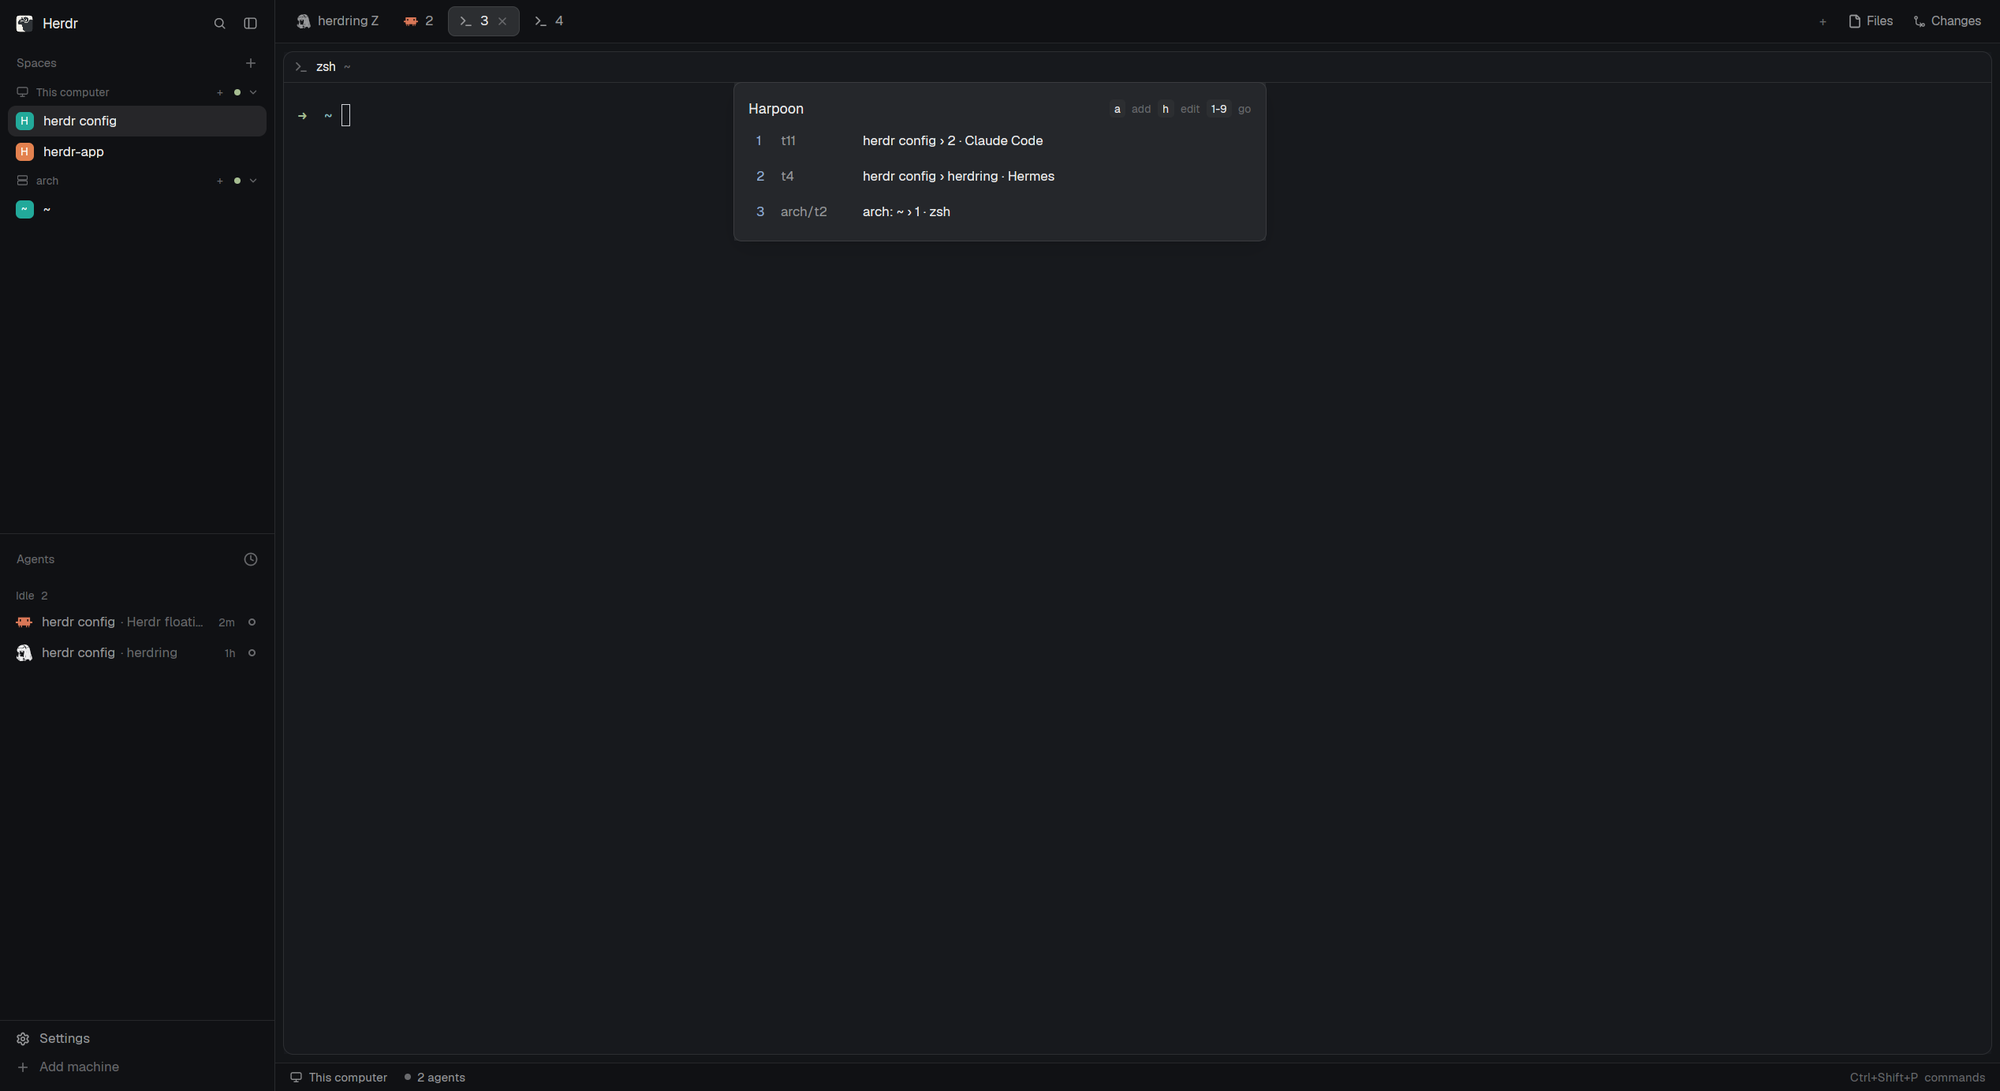
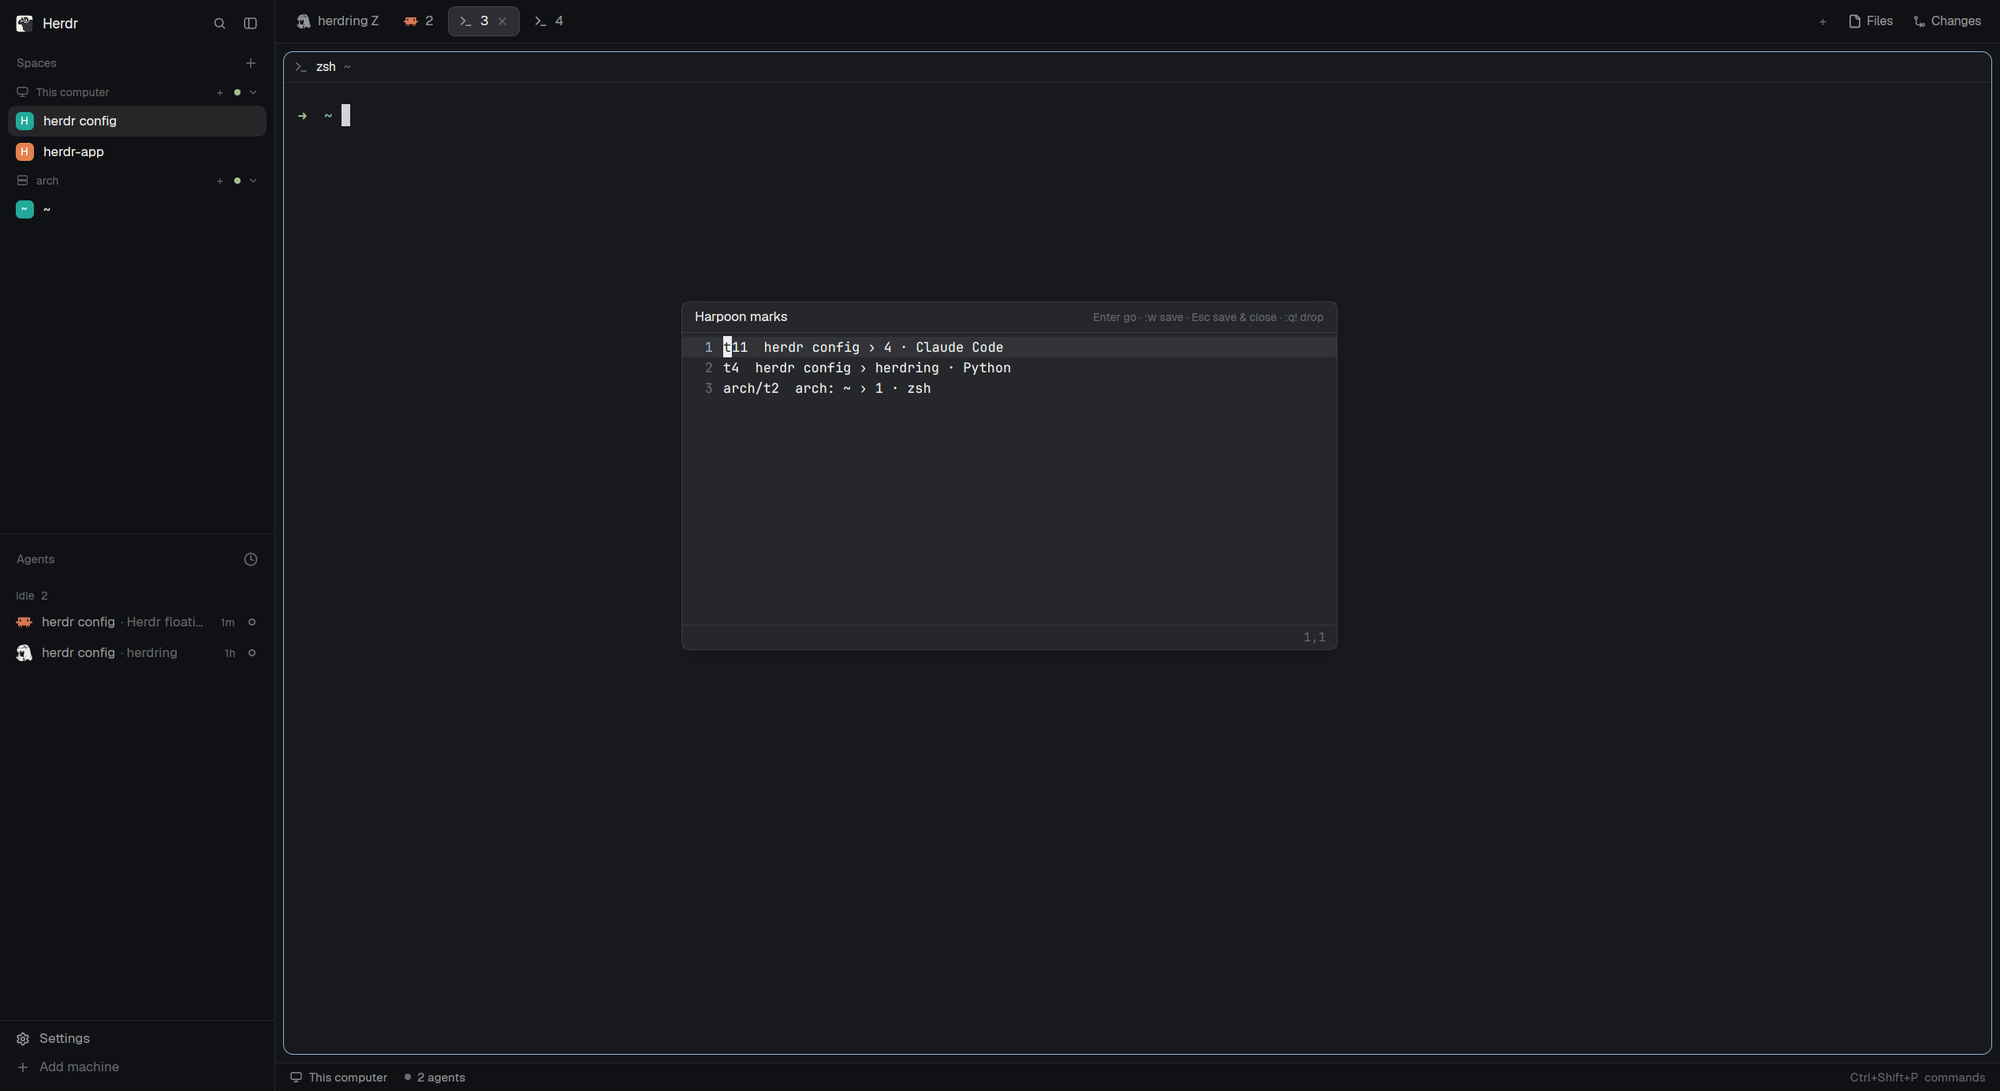
Restructure for herdr.dev: mods/harpoon/, RECIPE.md, keys.json
Lay the repo out as Herdr's mod sharing expects (mods/<name>/ plus
RECIPE.md, preview.png and a keys.json snippet). The editor screenshot
is now preview.png; the popup one is popup.png. README covers adding
it through an agent, copying, or symlinking the mod folder.

diff --git a/RECIPE.md b/RECIPE.md
@@ -1,0 +1,120 @@
+# Harpoon
+
+Harpoon-style marks for terminals. Mark the terminals you keep going back to,
+on this computer or any connected machine, then jump to one with
+`ctrl-space h` and a digit. The marks are a plain list you reorder and prune
+in a small vim-like window that opens instantly, drawn by the mod itself.
+
+![Harpoon](preview.png)
+
+## What you see
+
+**The popup** (`ctrl-space h`): a Herdr popup, 520px wide, near the top of the
+window (80px down), `popover` background, 14px padding, 13px text.
+- Header row: "Harpoon" (14px, semibold, `foreground`) on the left; on the
+  right, key hints at 11px in `dim`: small chips `a` add, `h` edit, `1-9` go
+  (chip: `raised` background, 4px radius, 5px side padding, `foreground` text).
+- One row per mark, at most 9: the slot number (14px column, `accent`,
+  semibold), the terminal address (70px column, `muted`, or `accent` when it
+  is the focused terminal), then a live description in `foreground`:
+  `<machine>: <space> › <tab> · <program>` (machine only for remote ones).
+  A mark with no pane reads `(no pane, will peek)`; a dead one `(gone)`.
+  Rows have 4px/8px padding, 6px radius and a `hover` background on hover.
+- No marks: "No marks yet. Press a to mark this terminal." in `dim`.
+
+**The editor** (`ctrl-space h h`): a Herdr window (`kind: "window"`) 640×340,
+centered the first time, then where it was last dropped (`key:
+"harpoon-editor"`), `popover` background.
+- Title bar, 30px, bottom border: "Harpoon marks" (semibold), `[+]` in `dim`
+  when there are unsaved changes, and on the right in 11px `dim`:
+  "Enter go · :w save · Esc save & close · :q! drop".
+- Lines in the terminal font (`settings().font_family`, else JetBrains Mono),
+  13px, each 20px tall: a 22px right-aligned line number (`accent` on the
+  cursor line, `dim` otherwise), then the text. The cursor line has a `hover`
+  background; a visual-line selection has `selection`. The cursor is a block:
+  the character under it drawn `background` on `foreground`.
+- Status line, 24px, top border, 12px mono: `:command` with a block cursor
+  while typing a command, else the last message (`-- VISUAL LINE --`,
+  `3 fewer lines`, `"marks.txt" 3 marks written`, errors in `blocked`); on the
+  right, pending keys/count and `row,col`.
+
+## How it behaves
+
+- The popup takes the keyboard when it opens. Next key: `a` marks the focused
+  terminal (appends `<address>  <description>` to the marks file; does nothing
+  if that address is already marked) and toasts "Harpoon N"; `1`–`9` goes to
+  that mark; `h` opens the editor; `esc` closes. Clicking a row goes to it.
+- Going to a mark: find the pane showing that terminal in `panes()`, then
+  `space.select {id}` (if not shown), `tab.select {id}` (if not shown),
+  `pane.focus {pane}`. Works the same for remote terminals (`arch/t2`).
+  A live terminal with no pane opens with `terminal.peek`; a missing one
+  toasts "`<address>` is gone" (warning).
+- The editor focuses its own focus handle (windows don't take the keyboard by
+  themselves). It is a line-oriented vim with no insert mode:
+  `h j k l`, arrows, `0 ^ $`, `w b`, `gg G {n}G`, counts; `dd {n}dd dj dk dG
+  dgg`, `yy Y`, `p P` (linewise register; `ddp` swaps lines); `V` visual line
+  with motions, `d`/`x`, `y`, `o`, `esc`; `u`, `ctrl-r`; `:w :q :q! :wq :x
+  :{line}`, `ZZ ZQ`.
+- `esc` in normal mode saves (if changed) and closes; `:q` refuses with E37
+  while there are unsaved changes; `:q!` / `ZQ` drop them. `Enter` saves and
+  goes to the mark under the cursor. Closing returns focus to the pane that
+  was focused when the editor opened.
+- Agent statuses (working, blocked, done, idle) are not shown: a mark is just
+  a terminal, whatever runs in it.
+
+## Built from
+
+- One mod, `mods/harpoon/`, `mod.json`:
+  `{ "place": "none", "overlay": { "kind": "popup", "at": "top", "offset": 80, "width": 520 } }`.
+  Opened by the key `"ctrl-space h": "mod.open:harpoon"` (see `keys.json`).
+- `main.js`: the default `View` dispatches on `props().role`: none → the
+  popup, `"editor"` → the editor. The popup opens the editor with
+  `openOverlay({ kind: "window", key: "harpoon-editor", width: 640, height: 340,
+  mod: "harpoon", props: { role: "editor", text, pane } })`, passing the file
+  text it just read so the window draws at once, then closes itself.
+- `vim.js`: the vim emulation as a plain class (`new Vim(text)`,
+  `key(name)` → null or `{action: "close" | "save" | "jump"}`), no Herdr
+  imports, so it can be tested with node. Keys are named from the key event:
+  `ctrl-<key>` with control, else `key_char` when it is one character (so `$`,
+  `V`, `G` arrive as typed), else `key` (`escape`, `enter`, `space`).
+- Marks file: `<appHome()>/data/harpoon/marks.txt`, one mark per line, first
+  word = terminal address, rest ignored, `#` lines skipped. Read with
+  `readTextFile`, written with `writeTextFile(path, text, expected)` (stale
+  writes rejected), folder made with `fs/promises` `mkdir({recursive: true})`.
+- Herdr functions: `panes`, `spaces`, `terminals`, `focused`, `theme`,
+  `settings`, `props`, `run`, `openOverlay`, `closeOverlay`, `notify`,
+  `appHome`, `readTextFile`, `writeTextFile`. Commands: `space.select`,
+  `tab.select`, `pane.focus`, `terminal.peek`. No programs run, no network.
+
+## Watch out
+
+- A terminal inside an overlay (a window or dialog with a `{terminal}` block)
+  can't be given the keyboard by a mod: `pane.focus {terminal}` fails with "no
+  such pane" and `window.focus_next()` doesn't reach it. That's why the editor
+  is drawn by the mod instead of running nvim. `terminal.peek` of a terminal
+  started a moment ago with `hc run` also fails until `terminals()` lists it.
+- `<mod>.<command>` keys only reach a mod copy that is shown, so per-slot keys
+  can't go straight to a hidden mod; the popup reading the next key is what
+  makes `ctrl-space h 1` work with one binding.
+- Windows are dragged by any press the mod doesn't stop; the editor has no
+  clickable controls, so the whole window drags.
+- Esc in a popup: handle it in `on_key_down` and stop propagation.
+- The mod must be named `harpoon`: the popup opens the editor by that name.
+- Marks are terminal addresses, so a mark dies with its terminal (a lost
+  terminal that Herdr replaces with a shell keeps its address).
+- Only slots 1–9 are shown and reachable by key; the file can hold more.
+
+## Done when
+
+- `herdr-app check mods/harpoon` passes and `herdr-app status` shows no errors.
+- `ctrl-space h` shows the popup with the marks file's first 9 addresses and
+  live descriptions; `esc` closes it.
+- `ctrl-space h a` in a terminal adds one line to `data/harpoon/marks.txt`;
+  pressing it again in the same terminal adds nothing.
+- `ctrl-space h 2` from another space selects the right space and tab and
+  focuses the marked pane, including a terminal on a remote machine.
+- `ctrl-space h h` opens the editor immediately and typing `j` moves the
+  cursor without clicking first.
+- In the editor, `ddp` swaps two lines, `Vjd` deletes two, `u` undoes,
+  `:q` with changes shows E37, `esc` writes the file and closes, and the
+  popup then shows the new order.

diff --git a/README.md b/README.md
@@ -6,7 +6,7 @@ then jump to any of them with two keys. Marks work across machines: a terminal
 on a remote Herdr machine (`arch/t2`) is marked and jumped to the same way as
 a local one.
 
-![Harpoon popup](preview.png)
+![Harpoon marks editor](preview.png)
 
 ## Contents
 
@@ -14,6 +14,8 @@ a local one.
   - [The marks editor](#the-marks-editor)
   - [The marks file](#the-marks-file)
 - [Setup](#setup)
+  - [With your agent](#with-your-agent)
+  - [By hand](#by-hand)
 - [Files](#files)
 - [AI Disclosure](#ai-disclosure)
 - [License](#license)
@@ -21,6 +23,8 @@ a local one.
 ## What it does
 
 Press `ctrl-space h` and a small popup lists your marks. The next key decides:
+
+![Harpoon popup](popup.png)
 
 | Keys | Does |
 |---|---|
@@ -34,9 +38,8 @@ You can also click a mark in the popup to go to it.
 ### The marks editor
 
 The editor is drawn by the mod itself (no terminal, no nvim), so it opens
-instantly. It knows enough vim to reorder and delete lines:
-
-![Harpoon marks editor](editor.png)
+instantly. It knows enough vim to reorder and delete lines (pictured at the
+top):
 
 | | |
 |---|---|
@@ -79,17 +82,37 @@ happens on the computer that runs the Herdr app: the mod, the key binding and
 the marks file all live in `~/.config/herdr-app` there. Remote machines need
 nothing installed; their terminals can be marked as soon as Herdr shows them.
 
-1. Clone this repo as a mod folder:
+### With your agent
+
+Ask the coding agent in your Herdr app to add it:
+
+> Add the mod from https://github.com/edgarsgogolevs/herdr-harpoon
+
+Herdr's own instructions (`~/.config/herdr-app/AGENTS.md`) tell it to read
+every file first, copy `mods/harpoon` into your mods, merge `keys.json` into
+yours (asking before replacing a key you already use) and run the check.
+
+### By hand
+
+1. Copy the mod folder into your Herdr mods:
 
    ```sh
-   git clone https://github.com/edgarsgogolevs/herdr-harpoon ~/.config/herdr-app/mods/harpoon
+   git clone https://github.com/edgarsgogolevs/herdr-harpoon ~/Projects/herdr-harpoon
+   cp -r ~/Projects/herdr-harpoon/mods/harpoon ~/.config/herdr-app/mods/harpoon
    ```
 
-   The folder must be named `harpoon`: the popup and the editor window open
-   the mod by that name.
+   Or, to update with `git pull`, symlink it instead of copying (Herdr follows
+   the link and reloads on changes):
+
+   ```sh
+   ln -s ~/Projects/herdr-harpoon/mods/harpoon ~/.config/herdr-app/mods/harpoon
+   ```
+
+   The folder must be named `harpoon`: the popup opens the editor window by
+   that name.
 
 2. Bind one key. Add this line to the `"global"` section of
-   `~/.config/herdr-app/keys.json`:
+   `~/.config/herdr-app/keys.json` (it's also in this repo's `keys.json`):
 
    ```json
    "ctrl-space h": "mod.open:harpoon",
@@ -115,17 +138,19 @@ nothing installed; their terminals can be marked as soon as Herdr shows them.
    there and in `~/.config/herdr-app/keys.error`).
 
 Herdr reloads mods and keys live, so there's nothing to restart. The marks
-file and its folder are created the first time you mark a terminal. To update
-the mod, `git pull` in its folder. To remove it, delete the folder, the
-binding, and `~/.config/herdr-app/data/harpoon`.
+file and its folder are created the first time you mark a terminal. To remove
+the mod, delete `~/.config/herdr-app/mods/harpoon`, the binding, and
+`~/.config/herdr-app/data/harpoon`.
 
 ## Files
 
 | File | |
 |---|---|
-| `main.js` | The popup, the editor window, marking and jumping |
-| `vim.js` | The vim emulation: pure logic, no Herdr imports |
-| `mod.json` | Opens the mod as a popup at the top of the window |
+| `mods/harpoon/main.js` | The popup, the editor window, marking and jumping |
+| `mods/harpoon/vim.js` | The vim emulation: pure logic, no Herdr imports |
+| `mods/harpoon/mod.json` | Opens the mod as a popup at the top of the window |
+| `keys.json` | The one key binding, to merge into yours |
+| `RECIPE.md` | The brief another agent can rebuild the mod from (herdr.dev) |
 
 ## AI Disclosure
 
